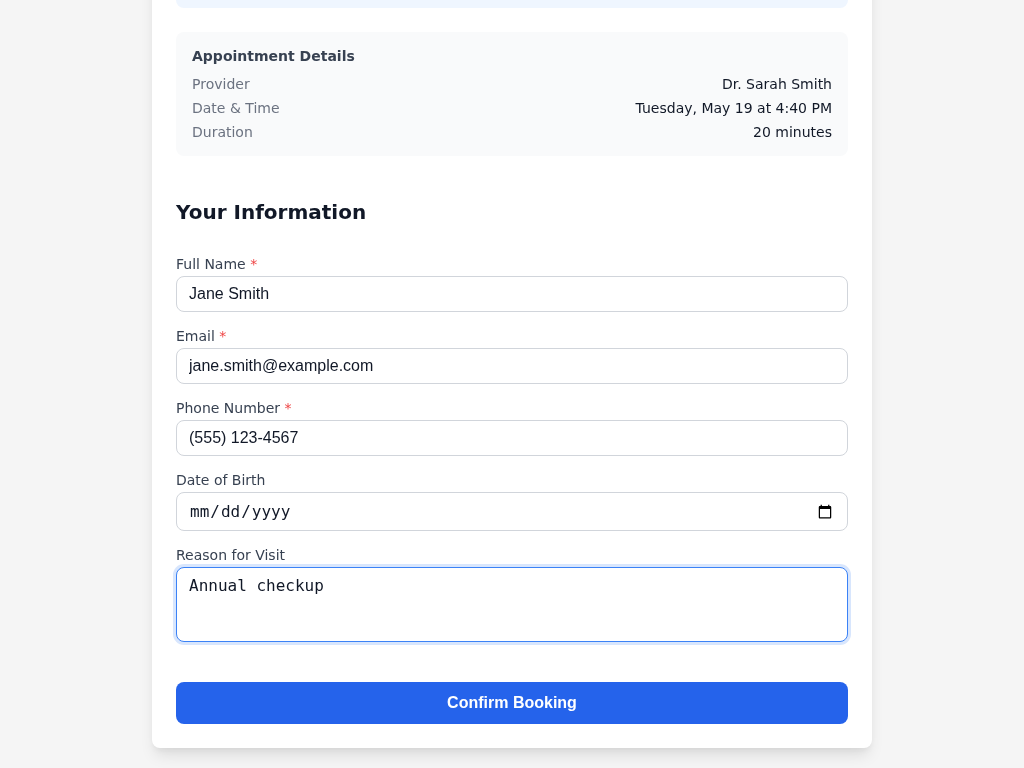
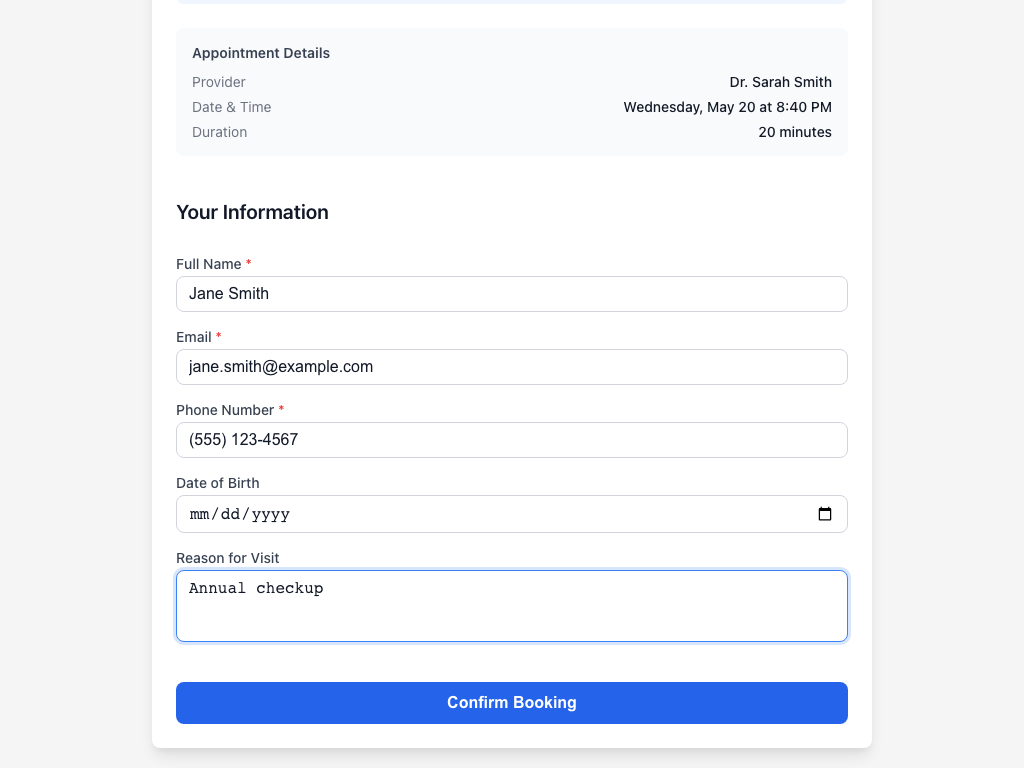
fix: repair E2E test suite — all 22 tests pass
- Stop importSeedData from overwriting seed-metadata.json generationDate,
  which broke date-shifting on subsequent imports (offset became 0 days)
- Add DELETE /Slot/$holds test-only endpoint to clear slot holds between
  tests, preventing 409 conflicts from 5-minute hold persistence
- Add afterEach hold cleanup in scheduler.spec.ts and screenshots.spec.ts
- Fix global-setup.ts to detect empty DB (schema-only 4KB file) by
  checking file size >100KB before skipping seed import
- Remove format: date-time constraint on Appointment start/end schema
  since date-shifted slots use naive ISO strings without Z suffix
- Enable ENABLE_TEST_ENDPOINTS in playwright webServer config
- Update screenshots from fresh seed data run

diff --git a/packages/fhir-scheduler/tests/global-setup.ts b/packages/fhir-scheduler/tests/global-setup.ts
@@ -6,24 +6,38 @@
  */
 
 import { execSync } from 'child_process';
-import { existsSync } from 'fs';
+import { existsSync, statSync } from 'fs';
 import path from 'path';
 import { fileURLToPath } from 'url';
 
 const __filename = fileURLToPath(import.meta.url);
 const __dirname = path.dirname(__filename);
 
+/**
+ * Check if the database has actual data (not just empty tables).
+ * A freshly-created DB with only schema is ~4KB.
+ */
+function dbHasData(dbPath: string): boolean {
+  try {
+    const stats = statSync(dbPath);
+    // A DB with seed data (10K+ slots) is well over 1MB
+    return stats.size > 100_000;
+  } catch {
+    return false;
+  }
+}
+
 export default async function globalSetup() {
   const projectRoot = path.resolve(__dirname, '../../..');
   const dbPath = path.join(projectRoot, 'data', 'fhirtogether.db');
   const seedSchedulesPath = path.join(projectRoot, 'data', 'seed-schedules.jsonl');
   
-  // Check if database exists and seed data is available
-  const dbExists = existsSync(dbPath);
+  // Check if database exists with actual data
+  const dbExists = existsSync(dbPath) && dbHasData(dbPath);
   const seedDataExists = existsSync(seedSchedulesPath);
   
   if (!dbExists && seedDataExists) {
-    console.log('🔧 Database not found, importing seed data...');
+    console.log('🔧 Database missing or empty, importing seed data...');
     
     try {
       // Import seed data from JSONL files

diff --git a/src/routes/slotRoutes.ts b/src/routes/slotRoutes.ts
@@ -254,6 +254,33 @@ export async function slotRoutes(fastify: FastifyInstance, store: FhirStore) {
 
   // ==================== SLOT HOLD OPERATIONS ====================
 
+  // DELETE /Slot/$holds - Clear all holds (test mode only)
+  fastify.delete(
+    '/Slot/$holds',
+    {
+      schema: {
+        description: 'Clear all slot holds (test mode only)',
+        tags: ['Slot'],
+        response: {
+          200: {
+            type: 'object', additionalProperties: true,
+            properties: {
+              cleared: { type: 'number' },
+            },
+          },
+        },
+      },
+    },
+    async (_request: FastifyRequest, reply: FastifyReply) => {
+      if (process.env.ENABLE_TEST_ENDPOINTS !== 'true') {
+        return reply.code(403).send({ error: 'Test endpoints disabled' });
+      }
+
+      const cleared = await store.clearAllHolds();
+      return reply.send({ cleared });
+    }
+  );
+
   // POST /Slot/:id/$hold - Acquire hold on a slot
   fastify.post<{ Params: SlotHoldParams; Body: HoldRequestBody }>(
     '/Slot/:id/$hold',

diff --git a/src/examples/importSeedData.ts b/src/examples/importSeedData.ts
@@ -154,13 +154,11 @@ export async function importSeedData(store: SqliteStore, dataDir: string = './da
   }
   console.log(`  ✓ Imported ${appointments.length} appointments`);
 
-  // Update the generation date to today so offset becomes 0 for future reads
-  if (offsetDays !== 0) {
-    const today = new Date();
-    const todayStr = `${today.getFullYear()}-${String(today.getMonth() + 1).padStart(2, '0')}-${String(today.getDate()).padStart(2, '0')}T00:00:00`;
-    store.setGenerationDate(todayStr);
-    console.log(`  ✓ Updated generation date to ${todayStr}`);
-  }
+  // NOTE: We intentionally do NOT update seed-metadata.json here.
+  // The file records when the seed JSONL data was originally generated,
+  // so every import can calculate the correct date offset from that
+  // baseline.  Overwriting it would cause subsequent imports (e.g. after
+  // deleting the DB) to compute a 0-day offset and leave dates unshifted.
   
   console.log('✅ Seed data import complete');
 }

diff --git a/src/auth/apiKeyAuth.ts b/src/auth/apiKeyAuth.ts
@@ -57,9 +57,13 @@ function isPublicRead(method: string, url: string): boolean {
 /** Slot $hold and Appointment booking — public writes secured by hold tokens, not API keys. */
 const PATIENT_WRITE_RE = /^\/Slot\/[^/]+\/\$hold(\/[^/]+)?$/;
 
+/** Test cleanup endpoint — gated by ENABLE_TEST_ENDPOINTS, not by auth. */
+const TEST_CLEANUP_RE = /^\/Slot\/\$holds$/;
+
 function isPublicWrite(method: string, url: string): boolean {
   const path = url.split('?')[0];
   if (PATIENT_WRITE_RE.test(path)) return true;
+  if (method === 'DELETE' && TEST_CLEANUP_RE.test(path)) return true;
   if (method === 'POST' && path === '/Appointment') return true;
   return false;
 }

diff --git a/src/routes/appointmentRoutes.ts b/src/routes/appointmentRoutes.ts
@@ -134,8 +134,8 @@ export async function appointmentRoutes(fastify: FastifyInstance, store: FhirSto
             resourceType: { type: 'string', const: 'Appointment' },
             status: { type: 'string', enum: ['proposed', 'pending', 'booked', 'arrived', 'fulfilled', 'cancelled', 'noshow'] },
             description: { type: 'string' },
-            start: { type: 'string', format: 'date-time' },
-            end: { type: 'string', format: 'date-time' },
+            start: { type: 'string' },
+            end: { type: 'string' },
             comment: { type: 'string' },
             participant: {
               type: 'array',

diff --git a/packages/fhir-scheduler/tests/scheduler.spec.ts b/packages/fhir-scheduler/tests/scheduler.spec.ts
@@ -15,6 +15,11 @@ test.describe('FHIR Scheduler Widget', () => {
     await page.goto('http://localhost:5174/');
   });
 
+  test.afterEach(async ({ request }) => {
+    // Clear all slot holds to prevent cross-test contamination
+    await request.delete('http://localhost:4010/Slot/$holds').catch(() => {});
+  });
+
   test('displays visit type selector on load', async ({ page }) => {
     // Should show the header
     await expect(page.getByRole('heading', { name: '🗓 FHIR Scheduler Widget' })).toBeVisible();

diff --git a/src/store/sqliteStore.ts b/src/store/sqliteStore.ts
@@ -1140,6 +1140,11 @@ export class SqliteStore implements FhirStore {
     return result.changes;
   }
 
+  async clearAllHolds(): Promise<number> {
+    const result = this.db.prepare('DELETE FROM slot_holds').run();
+    return result.changes;
+  }
+
   // ==================== HL7 MESSAGE LOG OPERATIONS ====================
 
   async logHL7Message(entry: Omit<HL7MessageLogEntry, 'id'>): Promise<HL7MessageLogEntry> {

diff --git a/packages/fhir-scheduler/tests/screenshots.spec.ts b/packages/fhir-scheduler/tests/screenshots.spec.ts
@@ -147,6 +147,11 @@ function generateReadmeSection(): string {
 }
 
 test.describe('Documentation Screenshots', () => {
+  test.afterEach(async ({ request }) => {
+    // Clear all slot holds to prevent cross-test contamination
+    await request.delete('http://localhost:4010/Slot/$holds').catch(() => {});
+  });
+
   /**
    * Helper to select follow-up visit type (skips questionnaire)
    */

diff --git a/src/types/fhir.ts b/src/types/fhir.ts
@@ -315,6 +315,7 @@ export interface FhirStore {
   getActiveHold(slotId: string): Promise<SlotHold | null>;
   getHoldByToken(holdToken: string): Promise<SlotHold | null>;
   cleanupExpiredHolds(): Promise<number>;
+  clearAllHolds(): Promise<number>;
 
   // HL7 message log operations
   logHL7Message(entry: Omit<HL7MessageLogEntry, 'id'>): Promise<HL7MessageLogEntry>;

diff --git a/packages/fhir-scheduler/playwright.config.ts b/packages/fhir-scheduler/playwright.config.ts
@@ -38,7 +38,7 @@ export default defineConfig({
   webServer: [
     // In CI the backend is pre-started by the workflow
     ...(!process.env.CI ? [{
-      command: 'npm run dev',
+      command: 'ENABLE_TEST_ENDPOINTS=true npm run dev',
       cwd: '../..',  // FHIRTogether root
       url: 'http://localhost:4010/health',
       reuseExistingServer: true,
